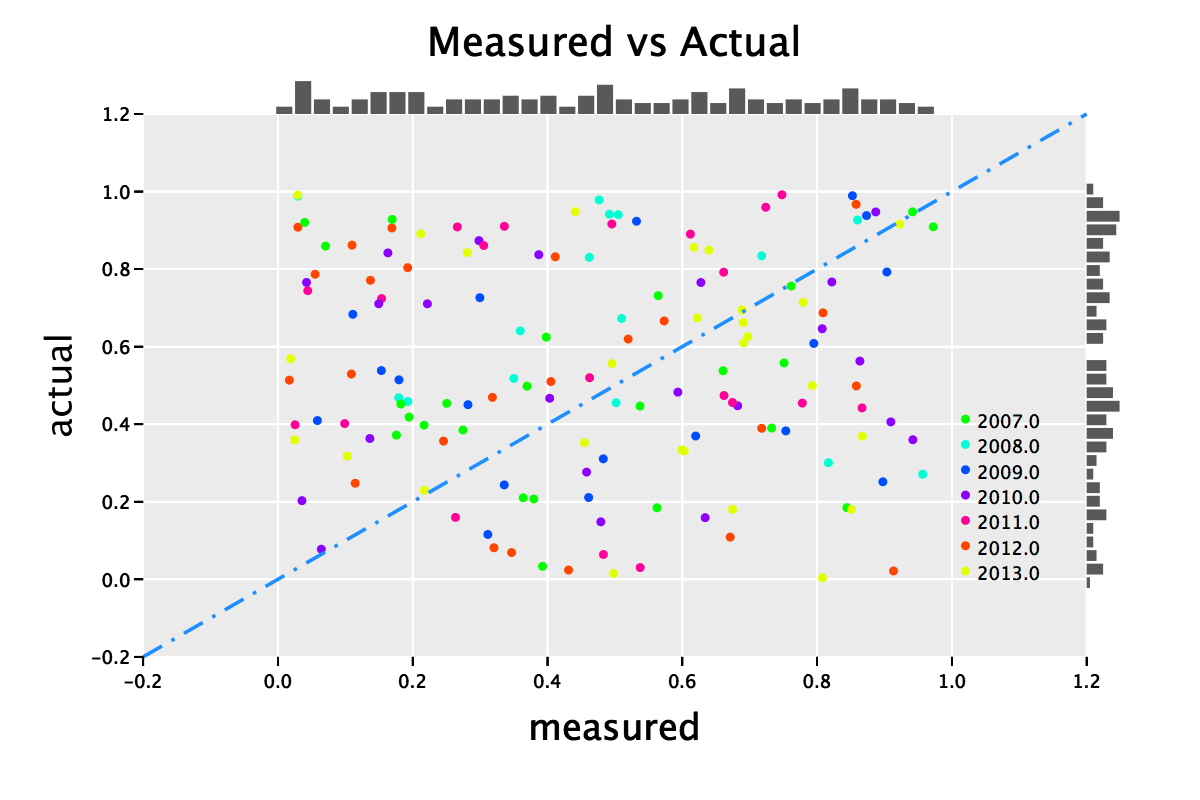
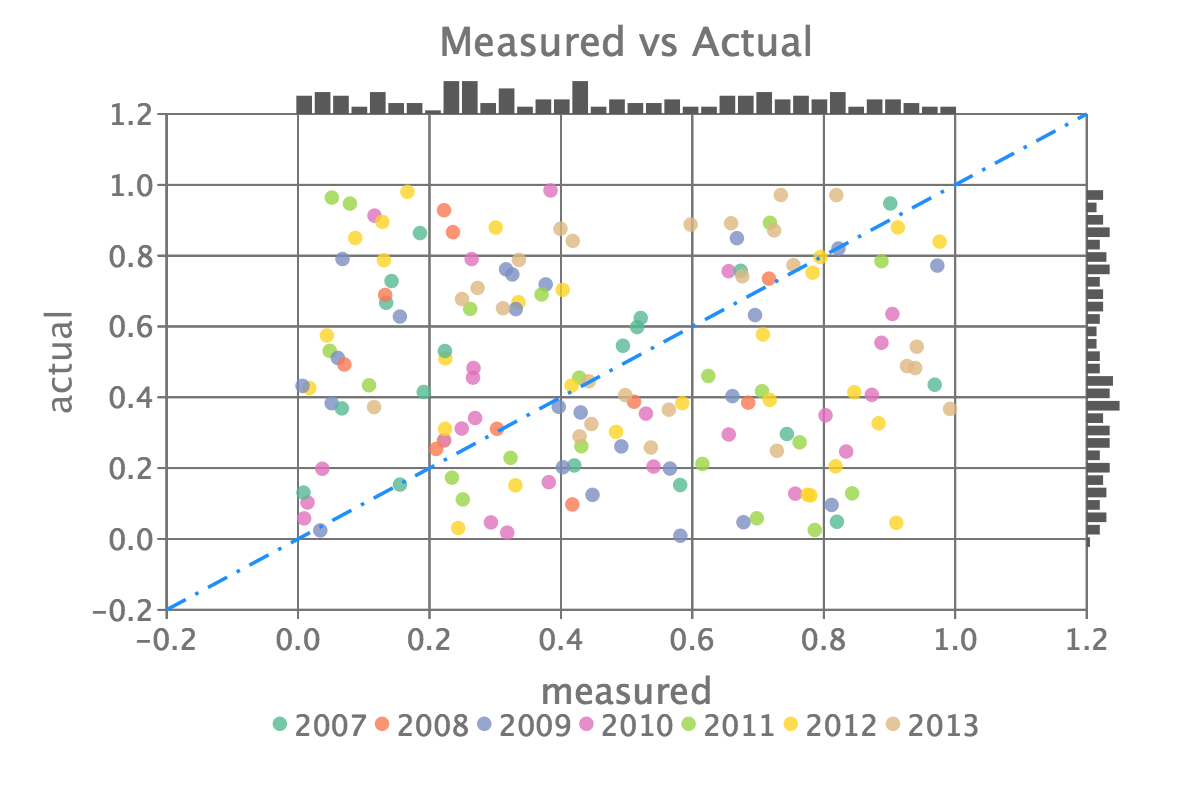
Make all the plots prettier

diff --git a/docs/src/main/tut/docs/plot-catalog.md b/docs/src/main/tut/docs/plot-catalog.md
@@ -30,24 +30,26 @@ EvilPlot examples both simple and built-in as well as complex and custom are her
 <div class="col-md-6" markdown="1">
 ```scala
 val percentChange = Seq[Double](-10, 5, 12, 68, -22)
-  val labels = Seq("one", "two", "three", "four", "five")
+val labels = Seq("one", "two", "three", "four", "five")
 
-  val labeledByColor = new BarRenderer {
-    val positive = RGB(241, 121, 6)
-    val negative = RGB(226, 56, 140)
-    def render(plot: Plot, extent: Extent, category: Bar): Drawable = {
-      val rect = Rect(extent)
-      val value = category.values.head
-      val color = if (value >= 0) positive else negative
-      Align.center(rect filled color, Text(s"$value%", size = 20)).group
-    }
+val labeledByColor = new BarRenderer {
+  val positive = RGB(241, 121, 6)
+  val negative = RGB(226, 56, 140)
+  def render(plot: Plot, extent: Extent, category: Bar): Drawable = {
+    val rect = Rect(extent)
+    val value = category.values.head
+    val color = if (value >= 0) positive else negative
+    Align.center(rect filled color, Text(s"$value%", size = 20)).group
   }
+}
 
-  BarChart
-    .custom(percentChange.map(Bar.apply), spacing = Some(20), barRenderer = Some(labeledByColor))
-    .standard(xLabels = labels)
-    .hline(0)
-    .render(plotAreaSize)
+BarChart
+  .custom(percentChange.map(Bar.apply), spacing = Some(20),
+    barRenderer = Some(labeledByColor)
+  )
+  .standard(xLabels = labels)
+  .hline(0)
+  .render()
 ```
 </div>
 <div class="col-md-6">
@@ -73,9 +75,9 @@ val percentChange = Seq[Double](-10, 5, 12, 68, -22)
     .title("Clustered Bar Chart Demo")
     .xAxis(Seq("a", "b", "c", "d"))
     .yAxis()
-    .background()
+    .frame()
     .bottomLegend()
-    .render(plotAreaSize)
+    .render()
 ```
 </div>
 <div class="col-md-6">
@@ -102,9 +104,9 @@ val percentChange = Seq[Double](-10, 5, 12, 68, -22)
     .title("Clustered Bar Chart Demo")
     .xAxis(Seq("a", "b", "c", "d"))
     .yAxis()
-    .background()
+    .frame()
     .bottomLegend()
-    .render(plotAreaSize)
+    .render()
 ```
 </div>
 <div class="col-md-6">
@@ -130,9 +132,9 @@ val percentChange = Seq[Double](-10, 5, 12, 68, -22)
     .title("Clustered Bar Chart Demo")
     .xAxis(Seq("a", "b", "c", "d"))
     .yAxis()
-    .background()
+    .frame()
     .bottomLegend()
-    .render(plotAreaSize)
+    .render()
 ```
 </div>
 <div class="col-md-6">
@@ -145,15 +147,18 @@ val percentChange = Seq[Double](-10, 5, 12, 68, -22)
 <div class="col-md-6" markdown="1">
 
 ```scala
-  import HTMLNamedColors.{blue, green, red}
-  Overlay(
-    FunctionPlot.series(x => x * x, "y = x^2", blue, xbounds = Some(Bounds(-1, 1))),
-    FunctionPlot.series(x => math.pow(x, 3), "y = x^3", red, xbounds = Some(Bounds(-1, 1))),
-    FunctionPlot.series(x => math.pow(x, 4), "y = x^4", green, xbounds = Some(Bounds(-1, 1)))
-  ).title("A bunch of polynomials.")
-    .overlayLegend()
-    .standard()
-    .render()
+import HTMLNamedColors.{blue, green, red}
+Overlay(
+  FunctionPlot.series(x => x * x, "y = x^2",
+    blue, xbounds = Some(Bounds(-1, 1))),
+  FunctionPlot.series(x => math.pow(x, 3), "y = x^3",
+    red, xbounds = Some(Bounds(-1, 1))),
+  FunctionPlot.series(x => math.pow(x, 4), "y = x^4",
+    green, xbounds = Some(Bounds(-1, 1)))
+).title("A bunch of polynomials.")
+  .overlayLegend()
+  .standard()
+  .render()
 ```
 </div>
 <div class="col-md-6">
@@ -180,9 +185,9 @@ val percentChange = Seq[Double](-10, 5, 12, 68, -22)
     .title("Clustered Bar Chart Demo")
     .xAxis(Seq("a", "b", "c", "d"))
     .yAxis()
-    .background()
+    .frame()
     .bottomLegend()
-    .render(plotAreaSize)
+    .render()
 ```
 </div>
 <div class="col-md-6">
@@ -194,21 +199,28 @@ val percentChange = Seq[Double](-10, 5, 12, 68, -22)
 <div class="row">
 <div class="col-md-6" markdown="1">
 ```scala
-val points = Seq.fill(150)(Point(Random.nextDouble(), Random.nextDouble())) :+ Point(0.0, 0.0)
-  val years = Seq.fill(150)(Random.nextDouble()) :+ 1.0
-  val pointsWithYears = years.zip(points).groupBy(_._1).mapValues(_.map(_._2)).toSeq.sortBy(_._1)
-  ScatterPlot(points, pointRenderer = Some(PointRenderer.depthColor(years, None, None)))
-    .title("Actual vs. Expected")(serifTheme)
-    .background()
-    .xGrid()
-    .yGrid()
-    .xAxis()
-    .yAxis()
-    .xLabel("Expected")(serifTheme)
-    .yLabel("Actual")(serifTheme)
-    .trend(1, 0)
-    .rightLegend()
-    .render(plotAreaSize)
+val points = Seq.fill(150) {
+  Point(Random.nextDouble(), Random.nextDouble())
+} :+ Point(0.0, 0.0)
+val years = Seq.fill(150)(Random.nextDouble()) :+ 1.0
+val pointsWithYears = years.zip(points).groupBy(_._1)
+  .mapValues(_.map(_._2)).toSeq.sortBy(_._1)
+
+ScatterPlot(
+  points,
+  pointRenderer = Some(PointRenderer.depthColor(years, None, None))
+)
+  .title("Actual vs. Expected")(serifTheme)
+  .frame()
+  .xGrid()
+  .yGrid()
+  .xAxis()
+  .yAxis()
+  .xLabel("Expected")(serifTheme)
+  .yLabel("Actual")(serifTheme)
+  .trend(1, 0)
+  .rightLegend()
+  .render()
 ```
 </div>
 <div class="col-md-6">
@@ -221,28 +233,31 @@ val points = Seq.fill(150)(Point(Random.nextDouble(), Random.nextDouble())) :+ P
 <div class="col-md-6" markdown="1">
 
 ```scala
-  val allYears = (2007 to 2013).map(_.toDouble).toVector
-  val data = Seq.fill(150)(Point(Random.nextDouble(), Random.nextDouble()))
-  val years = Seq.fill(150)(allYears(Random.nextInt(allYears.length)))
+import com.cibo.evilplot.geometry.LineStyle.DashDot
+import com.cibo.evilplot.colors.HTMLNamedColors.dodgerBlue
 
-  val xhist = Histogram(data.map(_.x), bins = 50)
-  val yhist = Histogram(data.map(_.y), bins = 40)
-  ScatterPlot(
-    data = data,
-    pointRenderer = Some(PointRenderer.colorByCategory(years))
-  ).background()
-    .topPlot(xhist)
-    .rightPlot(yhist)
-    .xGrid()
-    .yGrid()
-    .xAxis()
-    .yAxis()
-    .title("Measured vs Actual")
-    .xLabel("measured")
-    .yLabel("actual")
-    .trend(1, 0, color = HTMLNamedColors.dodgerBlue, lineStyle = LineStyle.DashDot)
-    .overlayLegend(x = 0.95, y = 0.8)
-    .render(Extent(600, 400))
+val allYears = (2007 to 2013).map(_.toDouble).toVector
+val data = Seq.fill(150)(Point(Random.nextDouble(), Random.nextDouble()))
+val years = Seq.fill(150)(allYears(Random.nextInt(allYears.length)))
+
+val xhist = Histogram(data.map(_.x), bins = 50)
+val yhist = Histogram(data.map(_.y), bins = 40)
+ScatterPlot(
+  data = data,
+  pointRenderer = Some(PointRenderer.colorByCategory(years))
+).frame()
+  .topPlot(xhist)
+  .rightPlot(yhist)
+  .xGrid()
+  .yGrid()
+  .xAxis()
+  .yAxis()
+  .title("Measured vs Actual")
+  .xLabel("measured")
+  .yLabel("actual")
+  .trend(1, 0, color = dodgerBlue, lineStyle = DashDot)
+  .overlayLegend(x = 0.95, y = 0.8)
+  .render(Extent(600, 400))
 ```
 </div>
 <div class="col-md-6">
@@ -255,13 +270,13 @@ val points = Seq.fill(150)(Point(Random.nextDouble(), Random.nextDouble())) :+ P
 <div class="col-md-6" markdown="1">
 
 ```scala
-  val data = Seq[Seq[Double]](
-    Seq(1, 2, 3, 4),
-    Seq(5, 6, 7, 8),
-    Seq(9, 8, 7, 6)
-  )
+val data = Seq[Seq[Double]](
+  Seq(1, 2, 3, 4),
+  Seq(5, 6, 7, 8),
+  Seq(9, 8, 7, 6)
+)
 
-  Heatmap(data).title("Heatmap Demo").xAxis().yAxis().rightLegend().render(plotAreaSize)
+Heatmap(data).title("Heatmap Demo").xAxis().yAxis().rightLegend().render()
 ```
 </div>
 <div class="col-md-6">
@@ -274,13 +289,13 @@ val points = Seq.fill(150)(Point(Random.nextDouble(), Random.nextDouble())) :+ P
 <div class="col-md-6" markdown="1">
 
 ```scala
-  val data = Seq[Seq[Double]](
-    Seq(1, 2, 3, 4),
-    Seq(5, 6, 7, 8),
-    Seq(9, 8, 7, 6)
-  )
+val data = Seq[Seq[Double]](
+  Seq(1, 2, 3, 4),
+  Seq(5, 6, 7, 8),
+  Seq(9, 8, 7, 6)
+)
 
-  Heatmap(data).title("Heatmap Demo").xAxis().yAxis().rightLegend().render(plotAreaSize)
+Heatmap(data).title("Heatmap Demo").xAxis().yAxis().rightLegend().render()
 ```
 </div>
 <div class="col-md-6">
@@ -294,25 +309,25 @@ val points = Seq.fill(150)(Point(Random.nextDouble(), Random.nextDouble())) :+ P
 <!-- Inspired by Edward Tufte's _The Visual Display of Quantitative Information_. We define a custom `BoxRenderer`:
 ```scala
 def tufteLikeBoxRenderer(implicit theme: Theme) = new BoxRenderer {
-	def render(plot: Plot, extent: Extent, summary: BoxPlotSummaryStatistics): Drawable = {
-		import summary._
-		val scale = extent.height / (upperWhisker - lowerWhisker)
-		// heights
-		val topWhisker = upperWhisker - upperQuantile
-		val bottomWhisker = lowerQuantile - lowerWhisker
-		val upperToMiddle = upperQuantile - middleQuantile
-		val middleToLower = middleQuantile - lowerQuantile
-		val strokeWidth = theme.elements.strokeWidth
+  def render(plot: Plot, extent: Extent, summary: BoxPlotSummaryStatistics): Drawable = {
+    import summary._
+    val scale = extent.height / (upperWhisker - lowerWhisker)
+    // heights
+    val topWhisker = upperWhisker - upperQuantile
+    val bottomWhisker = lowerQuantile - lowerWhisker
+    val upperToMiddle = upperQuantile - middleQuantile
+    val middleToLower = middleQuantile - lowerQuantile
+    val strokeWidth = theme.elements.strokeWidth
 
-		Align.center(
-		  Line(scale * topWhisker, strokeWidth).rotated(90),
-		  Disc.centered(theme.elements.pointSize)
-		  	.padTop(scale * upperToMiddle)
-		  	.padBottom(scale * middleToLower),
-		  Line(scale * bottomWhisker, strokeWidth).rotated(90)
-		).reduce(_ above _)
-		 .colored(theme.colors.path)
-	}
+    Align.center(
+      Line(scale * topWhisker, strokeWidth).rotated(90),
+      Disc.centered(theme.elements.pointSize)
+        .padTop(scale * upperToMiddle)
+        .padBottom(scale * middleToLower),
+      Line(scale * bottomWhisker, strokeWidth).rotated(90)
+    ).reduce(_ above _)
+     .colored(theme.colors.path)
+  }
 }
 ```
 
@@ -325,7 +340,7 @@ import com.cibo.evilplot.plot.aesthetics.DefaultTheme._
 
 val data: Seq[Seq[Double]] = // 
 BoxPlot(data, boxRenderer = Some(tufteLikeBoxRenderer))
-	.frame()
+  .frame()
 ```
 </div>
 <div class="col-md-6">
@@ -385,7 +400,9 @@ def gaussianKernel(u: Double): Double = {
   1 / math.sqrt(2 * math.Pi) * math.exp(-0.5d * u * u)
 }
 
-def densityEstimate(data: Seq[Double], bandwidth: Double)(x: Double): Double = {
+def densityEstimate(data: Seq[Double], bandwidth: Double)(
+  x: Double
+): Double = {
   val totalProbDensity = data.map { x_i =>
     gaussianKernel((x - x_i) / bandwidth)
   }.sum
@@ -407,7 +424,7 @@ Overlay(
 )
   .standard()
   .xbounds(0, 30)
-  .render(plotAreaSize)
+  .render()
 ```
 </div>
 <div class="col-md-6">
@@ -419,7 +436,7 @@ Overlay(
 <div class="row">
 <div class="col-md-6" markdown="1">
 ```scala
-import com.cibo.evilplot.colors._
+import com.cibo.evilplot.colors.HTMLNamedColors.{red, green}
 import com.cibo.evilplot.plot._
 import com.cibo.evilplot.plot.aesthetics.DefaultTheme._
 import com.cibo.evilplot.plot.renderers.BarRenderer
@@ -429,8 +446,10 @@ val plotAreaSize: Extent = Extent(1000, 600)
 val data = Seq.fill(150)(Random.nextDouble() * 22)
 val data2 = Seq.fill(150)((Random.nextDouble() * 28) + 12)
 Overlay(
-  Histogram(data, barRenderer = Some(BarRenderer.default(Some(HTMLNamedColors.red.copy(opacity = 0.5))))),
-  Histogram(data2, barRenderer = Some(BarRenderer.default(Some(HTMLNamedColors.green.copy(opacity = 0.5)))))
+  Histogram(data,
+   barRenderer = Some(BarRenderer.default(Some(red.copy(opacity = 0.5))))),
+  Histogram(data2,
+   barRenderer = Some(BarRenderer.default(Some(green.copy(opacity = 0.5)))))
 )
   .standard()
   .render(plotAreaSize)
@@ -450,7 +469,9 @@ import com.cibo.evilplot.plot._
 import com.cibo.evilplot.plot.aesthetics.DefaultTheme._
 import scala.util.Random
 
-val data = Seq.fill(100)(Point(Random.nextDouble() * 20, Random.nextDouble() * 20))
+val data = Seq.fill(100) { 
+  Point(Random.nextDouble() * 20, Random.nextDouble() * 20
+}
 ContourPlot(data)
   .standard()
   .xbounds(0, 20)
